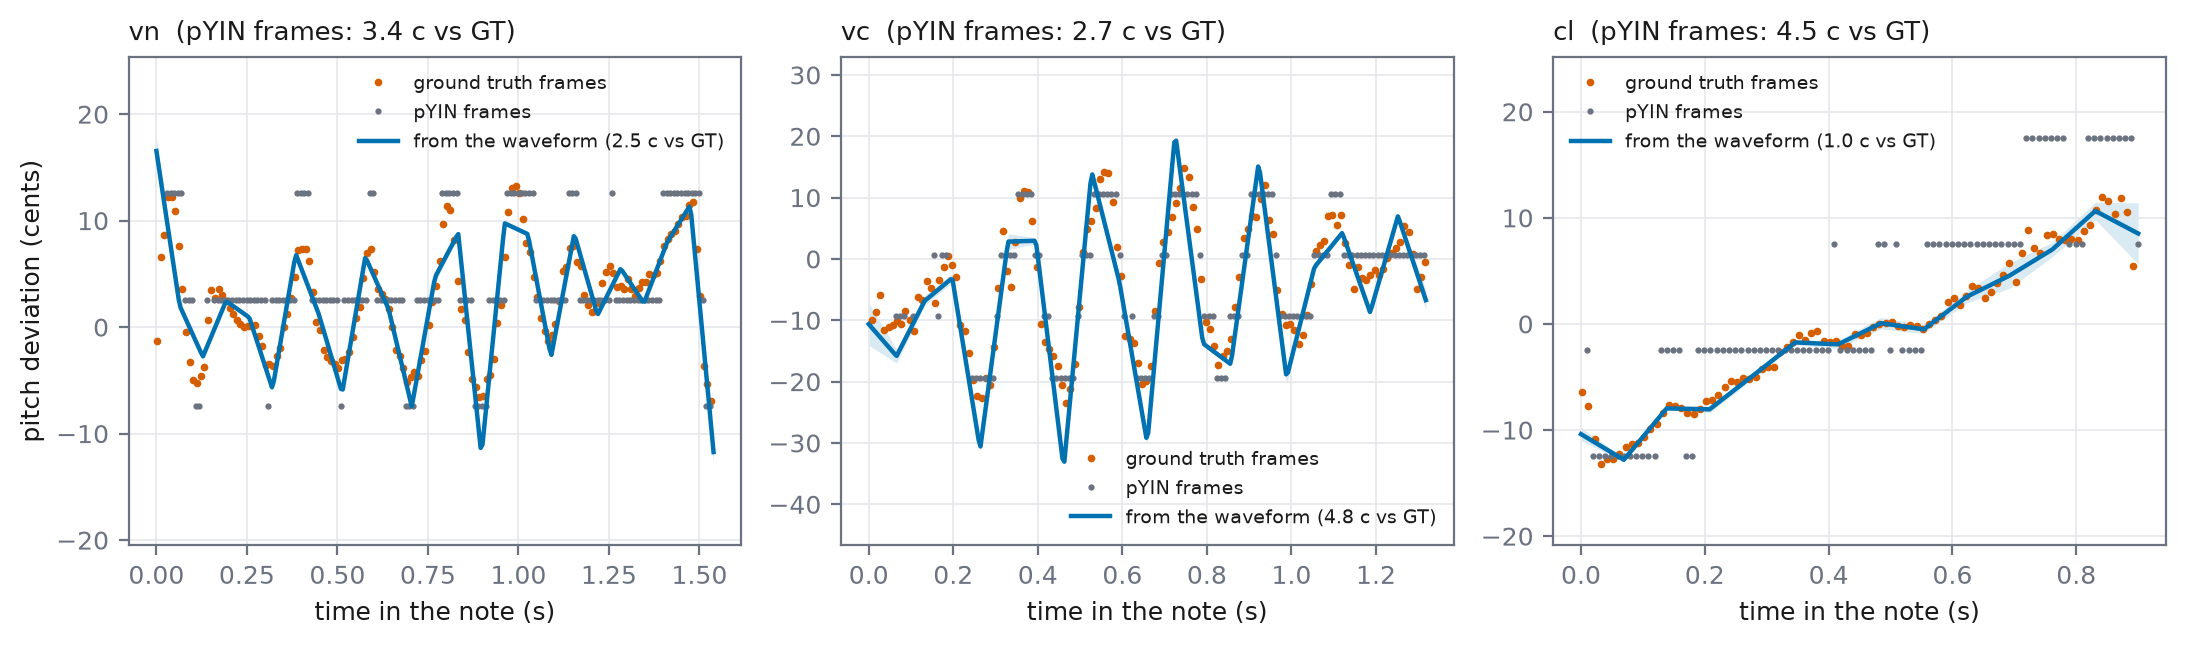
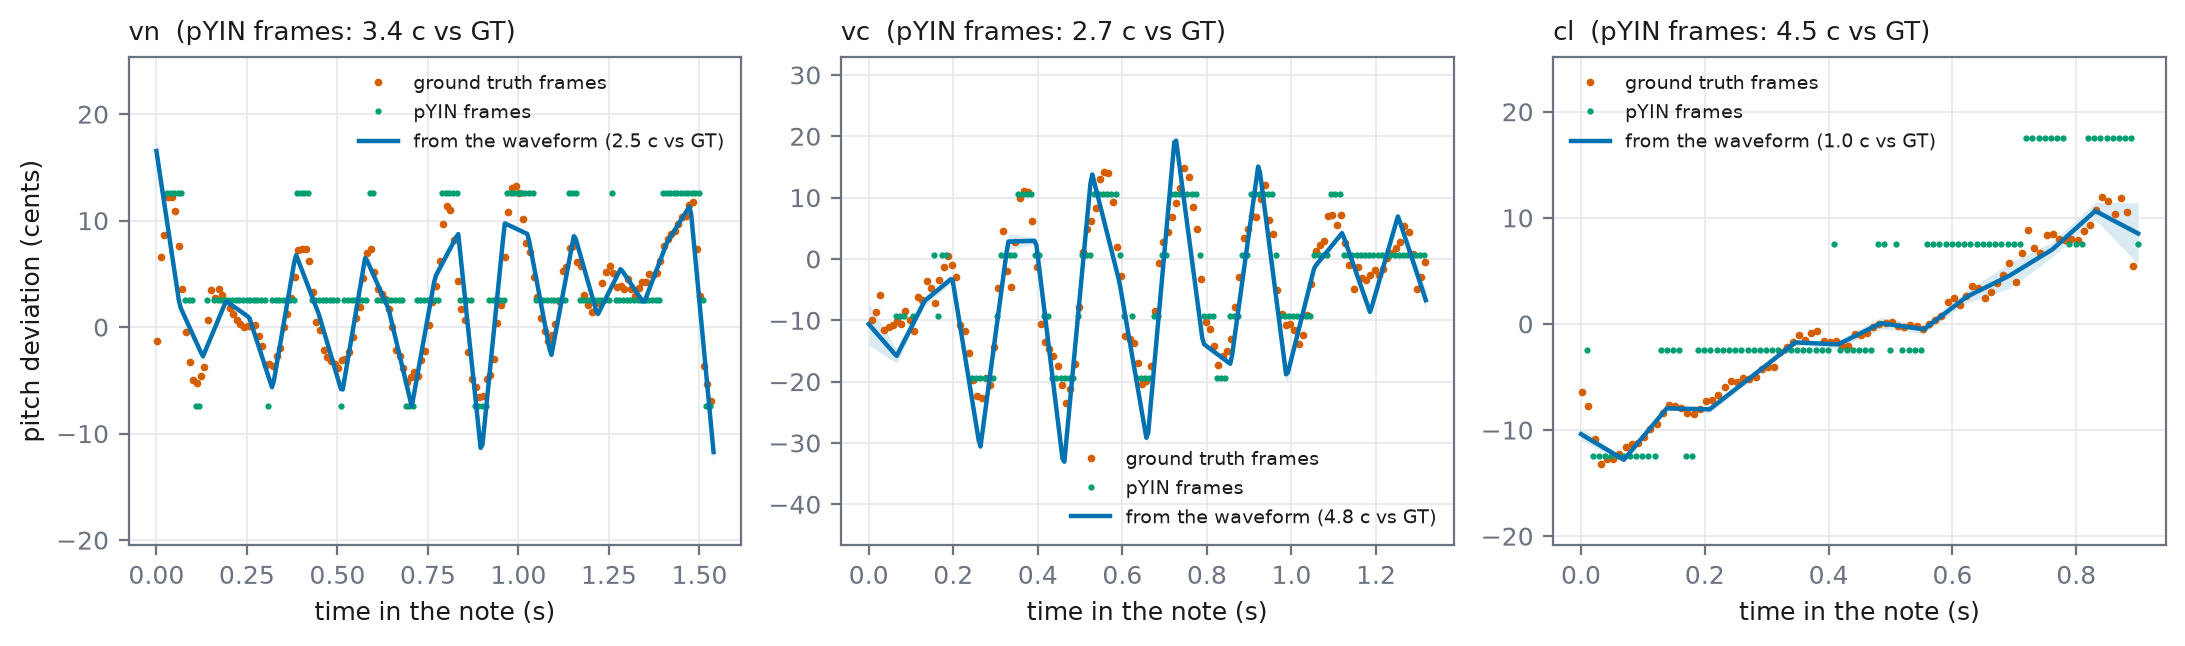
Audio chapter: pipeline diagram, single-panel waveform figure, green pYIN
Panel B removed from the waveform figure (single panel, caption carries
the sharpness point in words). New pipeline diagram frame after the
setup: inputs (score anchors pitch, audio samples), the candidate-curve
GP, synthesis to the design matrix, the collapsed likelihood scoring
the match with timbre integrated out, search loop, output curve with
uncertainty -- the exact input/processing/output answer. Prototype
figure regenerated with pYIN frames in green (distinct from vermilion
GT and blue curve). 33 slides, build clean.

diff --git a/docs/thesis/figures/audio_pipeline.tex b/docs/thesis/figures/audio_pipeline.tex
@@ -1,0 +1,48 @@
+% audio_pipeline.tex — Phase-3 inference: inputs, processing, output.
+\documentclass[tikz,border=8pt]{standalone}
+\usepackage{amsmath}
+\usetikzlibrary{positioning,arrows.meta}
+\definecolor{ink}{HTML}{1A1A1A}
+\definecolor{muted}{HTML}{6B7280}
+\definecolor{okblue}{HTML}{0072B2}
+\definecolor{okamber}{HTML}{E69F00}
+\definecolor{okverm}{HTML}{D55E00}
+\definecolor{okgreen}{HTML}{009E73}
+\begin{document}
+\begin{tikzpicture}[font=\small,
+  box/.style={draw=#1, line width=0.9pt, rounded corners=2pt, fill=#1!6,
+              align=center, inner sep=5pt, text width=30mm},
+  op/.style={draw=muted, line width=0.7pt, rounded corners=2pt,
+             align=center, inner sep=4pt, text width=27mm, fill=white},
+  arr/.style={-{Latex[length=2.2mm,width=1.6mm]}, draw=muted, line width=0.8pt},
+]
+\node[box=muted] (score) at (0, 1.6)
+  {\textbf{input: score}\\ \scriptsize written pitch $p$, note span};
+\node[box=okblue] (cand) at (4.6, 1.6)
+  {\textbf{candidate curve}\\ $\mathrm{cents}(t) = c + u(t)$\\
+   \scriptsize $u \sim$ GP: vibrato + drift};
+\node[op] (f0) at (8.9, 1.6)
+  {$f_0(t) = f_p \, 2^{\mathrm{cents}(t)/1200}$\\
+   \scriptsize harmonic phases $\varphi_k$};
+\node[op] (phi) at (12.6, 1.6)
+  {synthesis basis $\Phi(z)$\\ \scriptsize $\cos\varphi_k,\ \sin\varphi_k$};
+\node[box=okverm] (audio) at (0, -1.5)
+  {\textbf{input: audio} $x$\\ \scriptsize the note's samples (16 kHz)};
+\node[box=okverm] (lik) at (8.9, -1.5)
+  {\textbf{score the match}\\
+   $\log \mathcal N(x;\, 0,\ \Phi \Sigma_a \Phi^{\!\top} \!+ \sigma^2 I)$\\
+   \scriptsize timbre integrated out exactly};
+\node[box=okgreen] (out) at (12.6, -1.5)
+  {\textbf{output}\\ the most probable curve\\ \scriptsize + its uncertainty};
+\draw[arr] (score) -- node[above, font=\scriptsize, text=muted, yshift=1pt]
+  {anchors $c$} (cand);
+\draw[arr] (cand) -- (f0);
+\draw[arr] (f0) -- (phi);
+\draw[arr] (phi.south) -- (lik.north east);
+\draw[arr] (audio) -- (lik);
+\draw[arr] (lik) -- (out);
+\draw[arr, dashed] (lik.north west) to[bend left=10]
+  node[left, font=\scriptsize, text=muted, align=center]
+  {search over $(c, u)$:\\ propose again,\\ start at $c = 0$} (cand.south);
+\end{tikzpicture}
+\end{document}

diff --git a/scripts/make_waveform_viz.py b/scripts/make_waveform_viz.py
@@ -39,23 +39,14 @@ c_hat = float(grid[int(np.argmax(lls))])
 Phi = chunked_design(f0_curve(t, midi, c_hat), t)
 beta, *_ = np.linalg.lstsq(Phi, x, rcond=None)
 recon = Phi @ beta
-fig, (A, B) = plt.subplots(1, 2, figsize=(9.8, 2.9))
+fig, A = plt.subplots(figsize=(7.6, 2.9))
 w = slice(int(0.40 * SR), int(0.44 * SR))
 A.plot(t[w] * 1000, x[w], color=VERM, lw=1.0, label="recorded audio $x$")
 A.plot(t[w] * 1000, recon[w], color=BLUE, lw=1.0, ls=(0, (4, 2)),
        label="model $\\Phi(z)\\,\\hat a$")
 A.set_xlabel("time (ms)"); A.set_ylabel("amplitude")
-A.set_title("A  40 ms of the note: audio vs model", loc="left")
+A.set_title("40 ms of a clarinet note: audio vs model, at the fitted intonation", loc="left")
 A.legend(fontsize=8)
-B.plot(grid, lls - lls.max(), color=BLUE, lw=1.4,
-       label="log p(audio | curve at offset c)")
-B.axvline(c_hat, color=VERM, lw=1.0, ls=":",
-          label=f"best c = {c_hat:+.1f} cents")
-B.set_xlabel("proposed intonation offset c (cents)")
-B.set_ylabel("log probability, relative to peak")
-B.set_ylim(-3000, 150)
-B.legend(fontsize=8, loc="lower right")
-B.set_title("B  how sharply the audio picks the pitch", loc="left")
 fig.tight_layout()
 fig.savefig("docs/thesis/figures/waveform_viz.png", bbox_inches="tight")
 print("wrote waveform_viz.png, c_hat", c_hat)

diff --git a/docs/slides/deck_week.tex b/docs/slides/deck_week.tex
@@ -559,13 +559,22 @@
 \end{frame}
 
 % ---------------------------------------------------------------------
+\begin{frame}{The pipeline: inputs, processing, output}
+  \figslotw{audio_pipeline.png}{0.97}{pipeline}
+  \vspace{-1mm}
+  {\small\textcolor{muted}{The score anchors the pitch; the GP proposes
+  deviation curves; each candidate is synthesized and scored against the
+  recording with the timbre integrated out; the best-scoring curve and
+  its uncertainty are the output.}}
+\end{frame}
+
+% ---------------------------------------------------------------------
 \begin{frame}{One note: the model against the raw audio}
   \figslotw{waveform_viz.png}{0.95}{waveform fit}
   \vspace{-2mm}
-  {\small\textcolor{muted}{A clarinet note. A: the harmonic model on
-  40 ms of the recording, at the fitted intonation. B: the collapsed
-  log probability of the recording as the proposed offset $c$ varies:
-  tens of thousands of samples make it needle-sharp.}}
+  {\small\textcolor{muted}{The harmonic model locks onto the recording
+  cycle for cycle once the intonation is right; a few cents off and the
+  match collapses, which is why audio is such a sharp observation.}}
 \end{frame}
 
 % ---------------------------------------------------------------------

diff --git a/scripts/proto_phase3_curve.py b/scripts/proto_phase3_curve.py
@@ -174,7 +174,7 @@ def main() -> None:
             (np.interp(gt_t, tr_t, tr_x) - gt_x) ** 2))) if tr_t.size > 1 else np.nan
 
         ax.plot(gt_t, gt_x, ".", ms=3.5, color=VERM, label="ground truth frames")
-        ax.plot(tr_t, tr_x, ".", ms=2.5, color=MUTED, label="pYIN frames")
+        ax.plot(tr_t, tr_x, ".", ms=2.5, color="#009E73", label="pYIN frames")
         ax.plot(tg, curve, color=BLUE, lw=1.6,
                 label=f"from the waveform ({rmse_curve:.1f} c vs GT)")
         ax.fill_between(tg, curve - 1.645 * band, curve + 1.645 * band,
